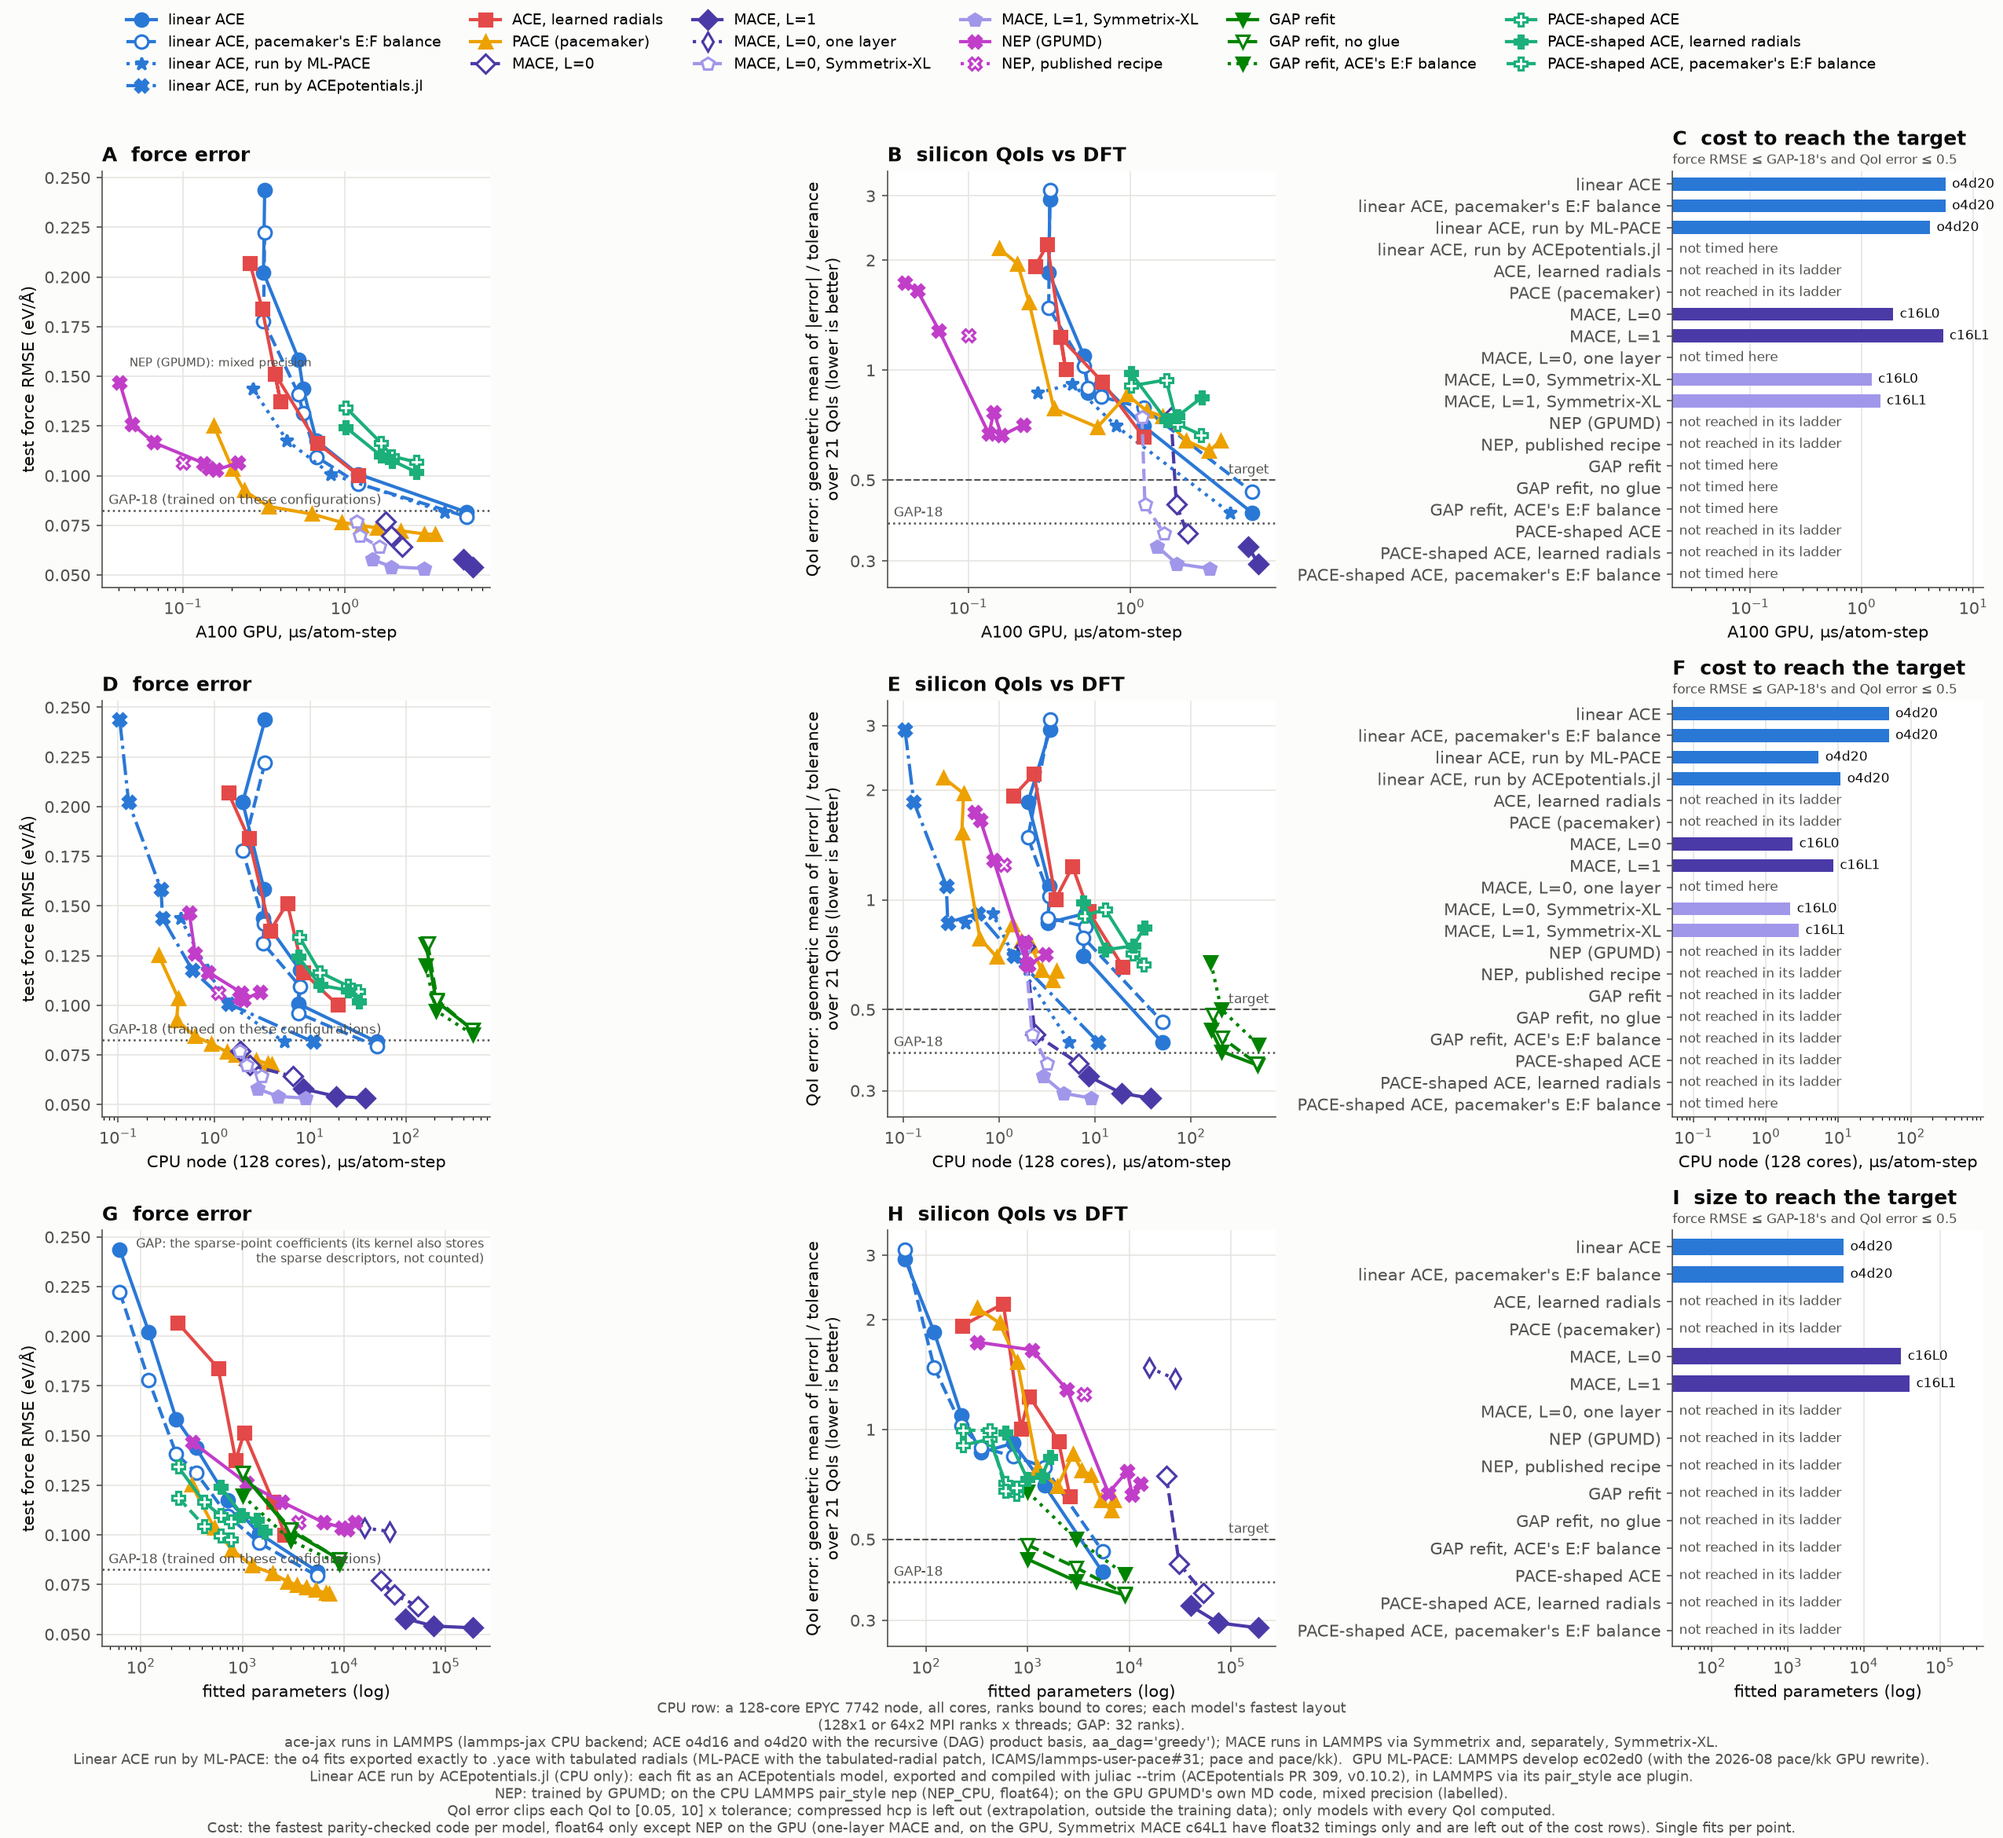
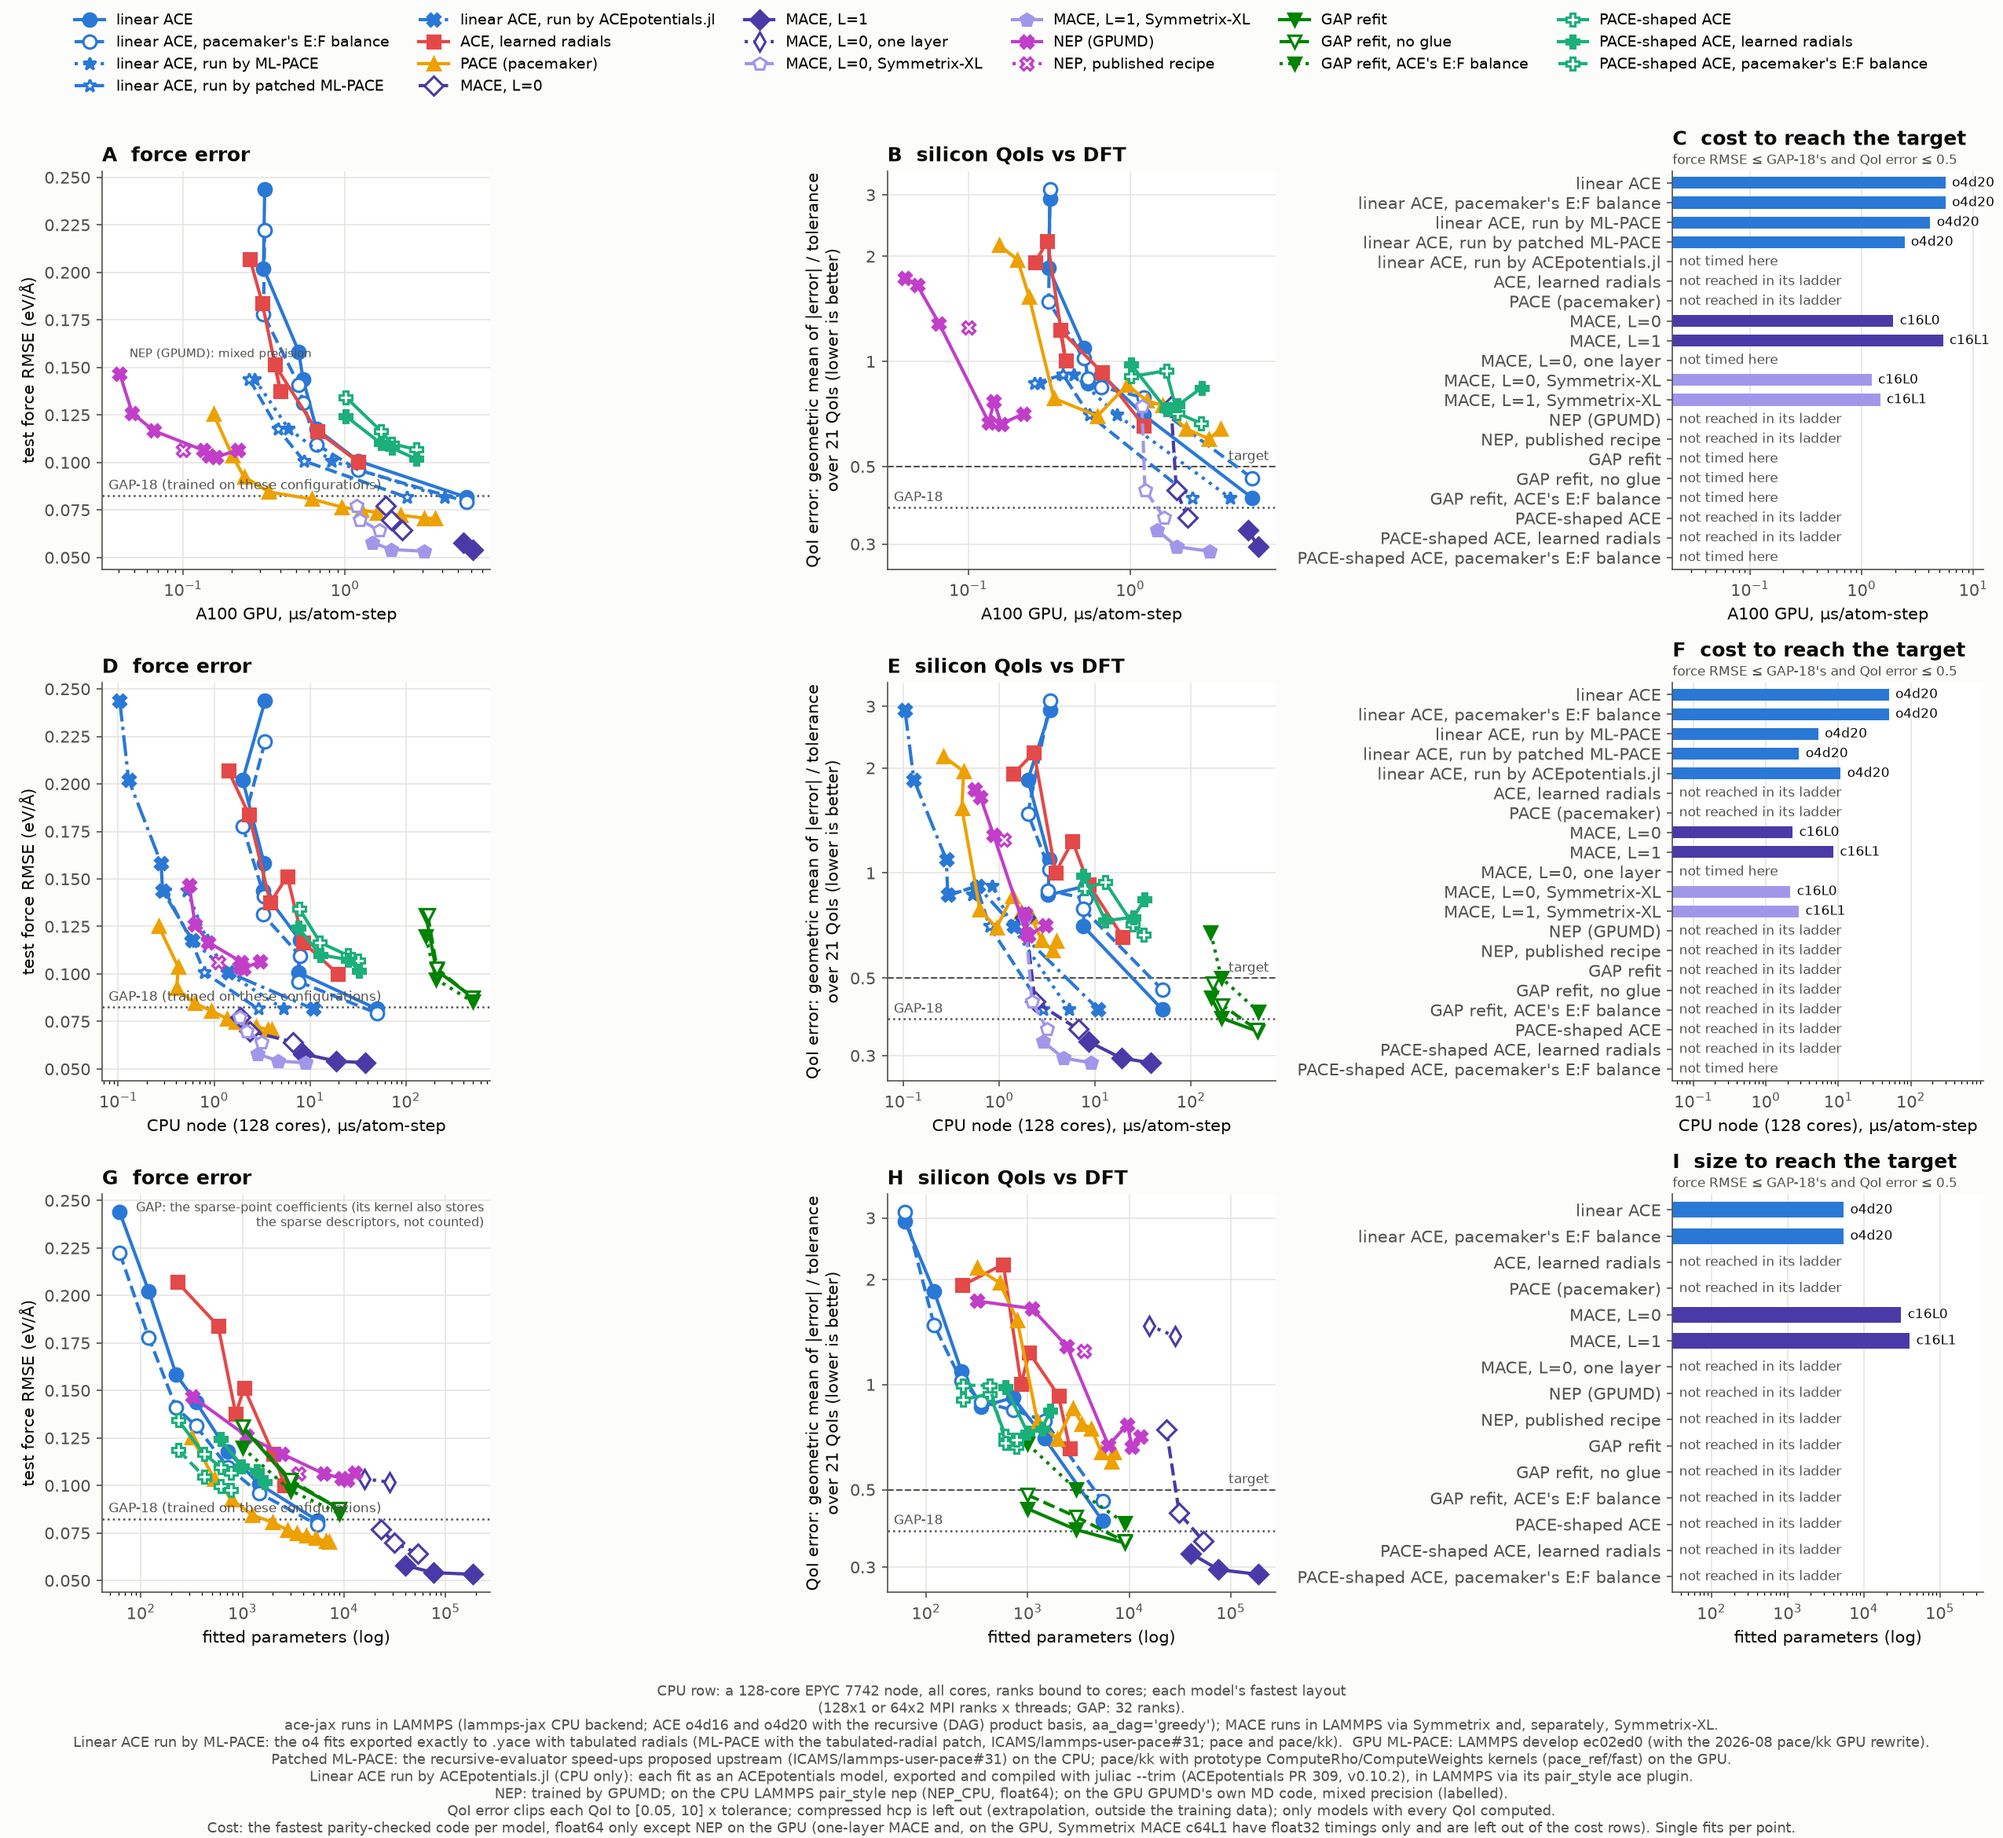
Silicon accuracy-cost: patched ML-PACE on CPU and A100 (#102)
* bench(accuracy-cost): ML-PACE recursive-evaluator patch (pace_ref/fast) and its Sulis CPU build + timing job

Three exact changes to ace_recursive.cpp behind -DNO_DB_FILL -DFAST_DAG -DFAST_AF: skip the dB_flatten clear
the recursive path never reads, carry DAG accumulations in registers (leaves interleaved), cache Y/dY once per
neighbour and contract over n first.  Same E/F as stock to ~1e-13; 2.0x one core, 2.7x 16-way on o4d20
(moriarty).  sulis-pacetab.sh cpufast builds it; sulis-cpu-pacefast.sbatch times it beside stock.

* bench(accuracy-cost): pace/kk fused Rho/FS/Weights team kernel (pace_ref/fast/0003) and its Sulis A100 build + timing

One team per atom: A_sph block and weights in shared memory, densities reduced in the team, FS once,
target-sorted backward records summed in registers with shared atomics only at target changes; term tables
precomputed on the host.  PACE_KK_RHOW=0 keeps the stock kernels in the same binary.  Parity vs stock on
o4d12-o4d20: forces to 2e-12 eV/A.  RTX 4000 Ada fp64 (1/64 rate): 1.1x slower than stock; the A100 run
decides.

* bench(accuracy-cost): ML-PACE summed_neighbour_A prototype (pace_ref/fast/0004, on top of 0002)

A yace key that makes the recursive and product evaluators accumulate every neighbour into the element-0 A
(and read the element-0 weights), the species entering only through the per-bond radials: ace-jax's pooled A
[…]

diff --git a/bench/si_qoi/plot_cost.py b/bench/si_qoi/plot_cost.py
@@ -34,6 +34,9 @@ FAM = {  # family: (label, colour, marker, linestyle, filled, qoi model name pat
     # the same linear ACE fits run by ML-PACE (write_yace, Tabulated radials: exact): linear ACE's colour
     # (same models), the code told apart by marker and line; its accuracy is ACE's, its cost its own (COST_NAME)
     "ace_tab":    ("linear ACE, run by ML-PACE", "#2a78d6", "*", ":",  True,  "ACE_{s}"),
+    # and by ML-PACE with the additions proposed upstream (ICAMS/lammps-user-pace#31: the recursive-evaluator
+    # speed-ups on the CPU; pace/kk with the prototype kernels of pace_ref/fast on the GPU): the same files, the open star
+    "ace_tabfork": ("linear ACE, run by patched ML-PACE", "#2a78d6", "*", "--", False, "ACE_{s}"),
     # and by ACEpotentials.jl's LAMMPS export (bench/accuracy_cost/build_trim.py: the juliac --trim library, exact)
     "ace_trim":   ("linear ACE, run by ACEpotentials.jl", "#2a78d6", "X", "-.", True, "ACE_{s}"),
     "ace_lr":     ("ACE, learned radials",     "#e34948", "s", "-",  True,  "ACElr_{s}"),
@@ -82,6 +85,8 @@ def family_of(r):
         return "ace_trim"
     if fam == "nep" and size.startswith("nlit"):
         return "nep_lit"
+    if fam == "ace_tab" and any(t in r.get("_file", "") for t in PATCHED_MLPACE):   # make_cost's per-row file stem
+        return "ace_tabfork"
     if fam == "ace_wl":
         return "ace_wl_o5" if size.startswith("o5") else "ace_wl_" + size.split("_wL")[1]
     return fam
@@ -89,7 +94,11 @@ INK, MUTED, GRID = "#0b0b0b", "#52514e", "#e6e5e1"
 # refits of a timed basis with other loss weights: the same model form, so the same cost
 COST_AS = {"ace_E10": "ace"}
 # a second code for the same fits: its cost under its own name (make_cost.py writes it there)
-COST_NAME = {"mace_xl_L0": "MACExl_{s}", "mace_xl_L1": "MACExl_{s}", "ace_tab": "ACEtab_{s}", "ace_trim": "ACEtrim_{s}"}
+COST_NAME = {"mace_xl_L0": "MACExl_{s}", "mace_xl_L1": "MACExl_{s}", "ace_tab": "ACEtab_{s}", "ace_trim": "ACEtrim_{s}",
+             "ace_tabfork": "ACEtabfork_{s}"}
+# timing files of ML-PACE with the proposed additions (sulis-{cpu,gpu}-pacefork.sbatch): their
+# mlpace rows are the ace_tabfork line, not stock ML-PACE's
+PATCHED_MLPACE = ("ace_tabfork",)
 TAB_SIZES = ("o4d12", "o4d14", "o4d16", "o4d20")    # the ace sizes converted (sweep.yaml ace_tab)
 
 
@@ -129,6 +138,7 @@ def load_rows():
     # and linear ACE run by ML-PACE or ACEpotentials.jl is the ace fits again
     return (rows + [r | {"family": "mace_xl_" + r["family"][-2:]} for r in rows if r["family"] in ("mace_L0", "mace_L1")]
             + [r | {"family": "ace_tab"} for r in rows if r["family"] == "ace" and r["size"] in TAB_SIZES]
+            + [r | {"family": "ace_tabfork"} for r in rows if r["family"] == "ace" and r["size"] in TAB_SIZES]
             + [r | {"family": "ace_trim"} for r in rows if r["family"] == "ace"])
 
 
@@ -305,16 +315,22 @@ def main():
                 "ace-jax runs in LAMMPS (lammps-jax CPU backend; ACE o4d16 and o4d20 with the recursive (DAG) product basis, aa_dag='greedy'); MACE runs in LAMMPS via Symmetrix and, separately, Symmetrix-XL.\n"
                 "Linear ACE run by ML-PACE: the o4 fits exported exactly to .yace with tabulated radials (ML-PACE with the tabulated-radial patch, ICAMS/lammps-user-pace#31; pace and pace/kk).  "
                 "GPU ML-PACE: LAMMPS develop ec02ed0 (with the 2026-08 pace/kk GPU rewrite).\n"
+                "Patched ML-PACE: the recursive-evaluator speed-ups proposed upstream (ICAMS/lammps-user-pace#31) on the CPU; "
+                "pace/kk with prototype ComputeRho/ComputeWeights kernels (pace_ref/fast) on the GPU.\n"
                 "Linear ACE run by ACEpotentials.jl (CPU only): each fit as an ACEpotentials model, exported and compiled "
                 "with juliac --trim (ACEpotentials PR 309, v0.10.2), in LAMMPS via its pair_style ace plugin.\n"
                 "NEP: trained by GPUMD; on the CPU LAMMPS pair_style nep (NEP_CPU, float64); on the GPU GPUMD's own MD code, mixed precision (labelled).\n"
                 if any("CPU" in r[0] for r in rows) else "")
+    bottom = 0
     if not a.no_note:
-        fig.text(0.5, 0.003, cpu_note + "QoI error clips each QoI to [0.05, 10] x tolerance; compressed hcp is left out (extrapolation, "
-                 "outside the training data); only models with every QoI computed.\n"
-                 "Cost: the fastest parity-checked code per model, float64 only except NEP on the GPU (one-layer MACE and, on the GPU, Symmetrix MACE c64L1 have "
-                 "float32 timings only and are left out of the cost rows). Single fits per point.", ha="center", fontsize=8.5, color=MUTED)
-    fig.tight_layout(rect=(0, 0 if a.no_note else 0.065, 1, 1 - (0.2 * legend_rows + 0.15) / fig.get_figheight()))
+        note = (cpu_note + "QoI error clips each QoI to [0.05, 10] x tolerance; compressed hcp is left out (extrapolation, "
+                "outside the training data); only models with every QoI computed.\n"
+                "Cost: the fastest parity-checked code per model, float64 only except NEP on the GPU (one-layer MACE and, on the GPU, Symmetrix MACE c64L1 have "
+                "float32 timings only and are left out of the cost rows). Single fits per point.")
+        fig.text(0.5, 0.003, note, ha="center", fontsize=8.5, color=MUTED)
+        # the axes start above the note: its lines (8.5 pt, 1.2 spacing) plus room for the bottom row's axis label
+        bottom = ((note.count("\n") + 1) * 8.5 * 1.2 / 72 + 0.2) / fig.get_figheight()
+    fig.tight_layout(rect=(0, bottom, 1, 1 - (0.2 * legend_rows + 0.15) / fig.get_figheight()))
     pathlib.Path(a.out).parent.mkdir(parents=True, exist_ok=True)
     fig.savefig(a.out, dpi=150); print("wrote", a.out)
 
